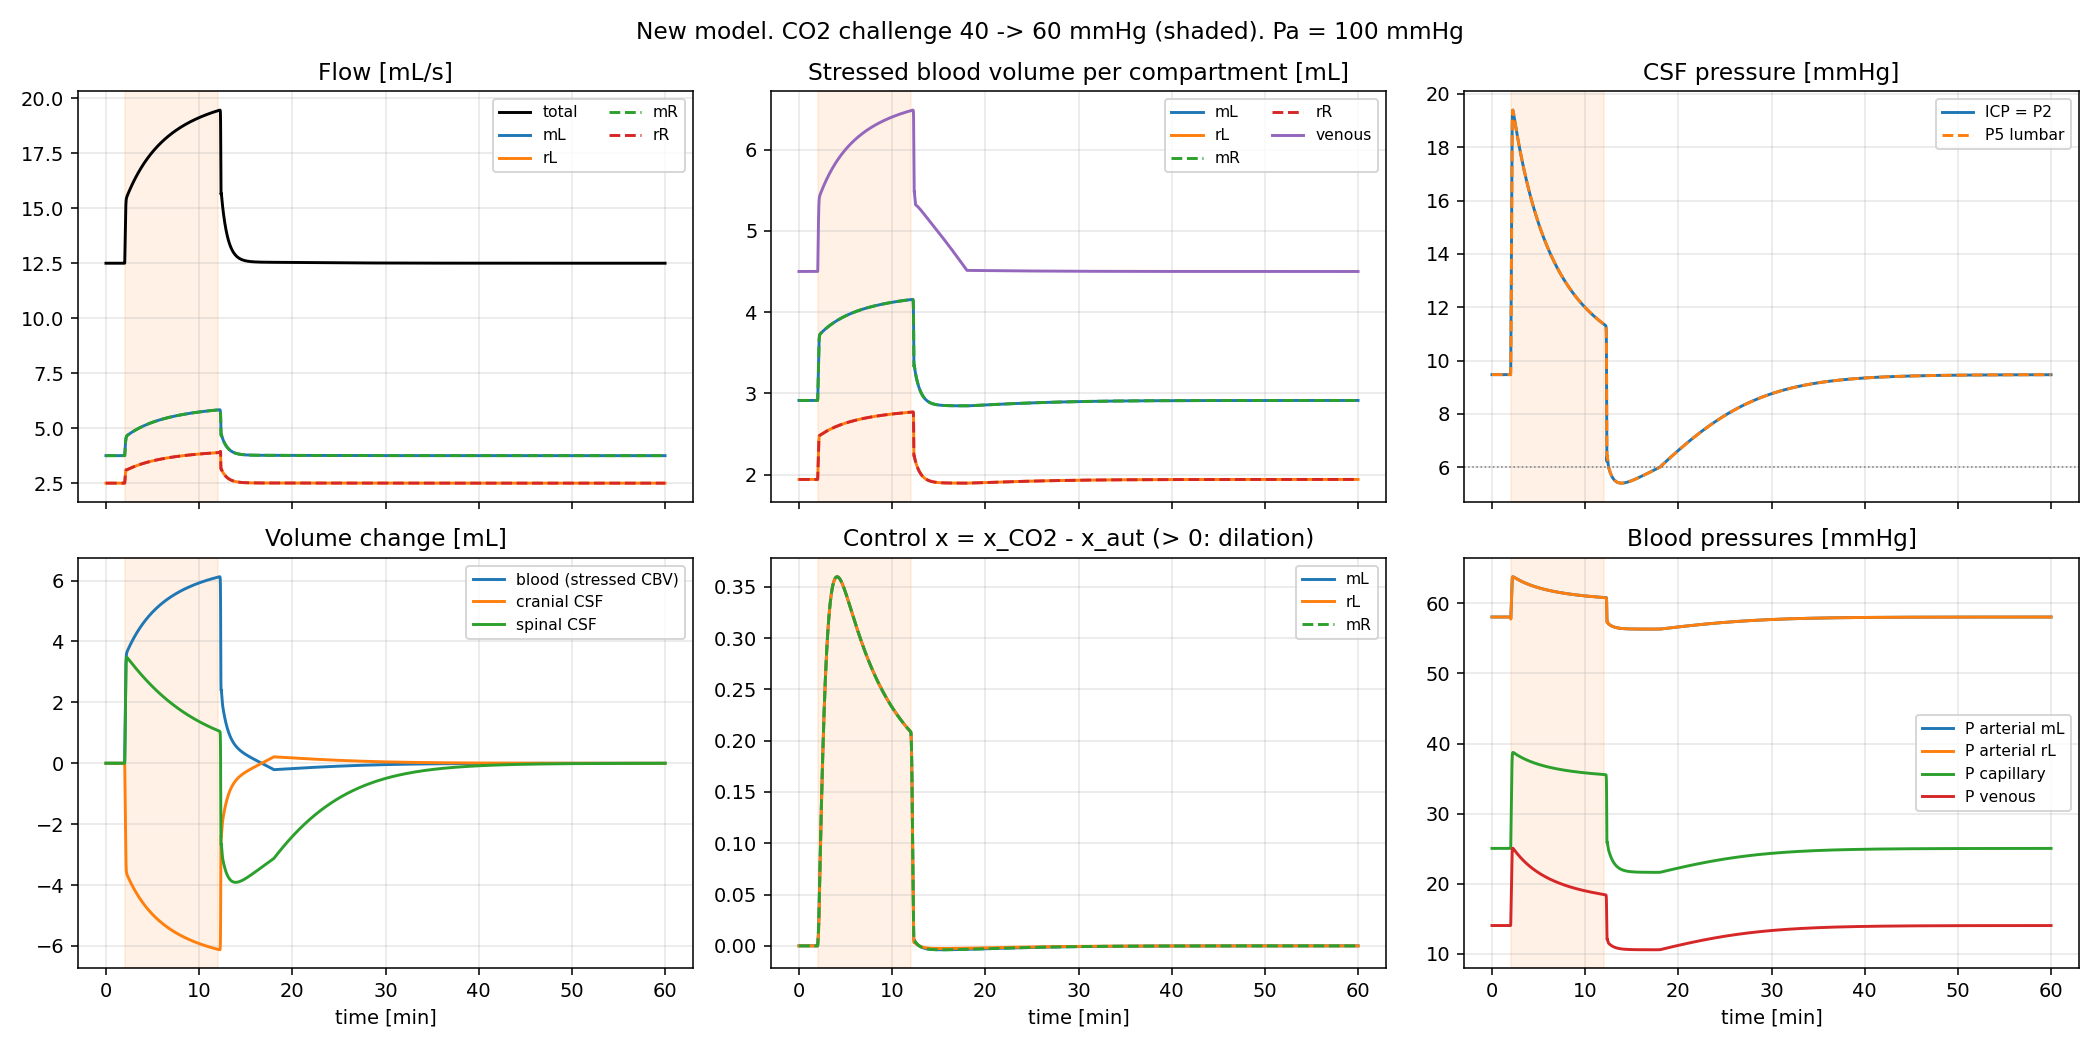
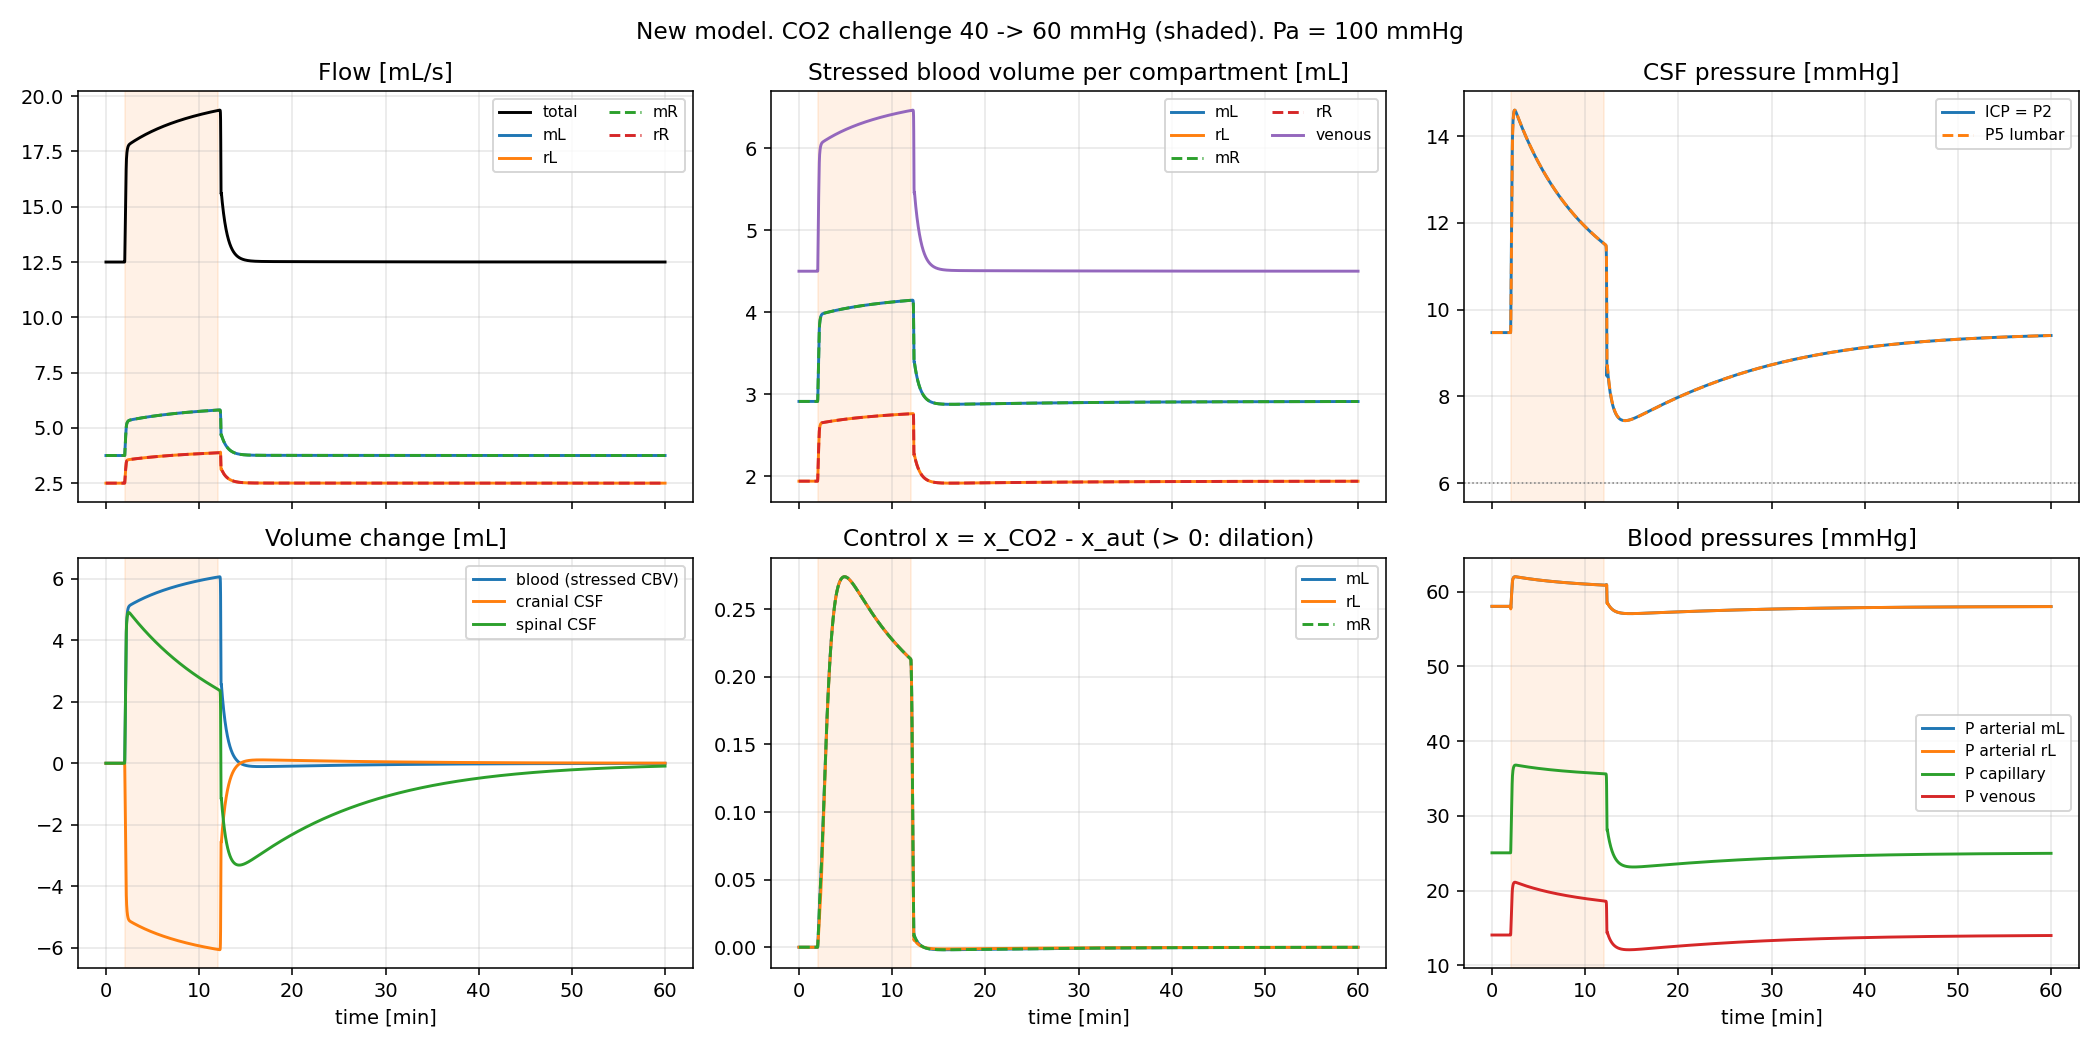
Make calibrated spinal storage the default; fix phi = 1; pulse diagnosis
new_model.py: NewModel() now scales Vanek's spinal compliances so that
storage at rest equals Ursino's 1/(k_E * ICP) (scale 2.09);
NewModel.vanek_values() gives the raw values. --calibrate compares the
two and runs the data-file pulse check.

Specification 7.7: decision phi_a = phi_v = 1 (blood walls face the SAS
only), reasons for the default storage, numbers for the default model,
and a diagnosis of the too-large ICP pulse (unresolved).

Figures regenerated with the default model.

diff --git a/mat_models/new_model.py b/mat_models/new_model.py
@@ -26,7 +26,7 @@ Units: mmHg, mL, s.
 
 Usage (from mat_models/):
     python new_model.py                 # tests of spec sections 7.1 and 7.3, figures to docs/figures/  (about 70 s)
-    python new_model.py --calibrate     # + calibration K1 and recording K2 of spec 7.5                   (about 3 min)
+    python new_model.py --calibrate     # + comparison with Vanek's raw compliances (K1), data-file check (K2) (3 min)
     python new_model.py --sensitivity   # + phi_v sensitivity V1 of spec 7.5                             (about 7 min)
     python new_model.py --all
 """
@@ -74,7 +74,7 @@ class Inputs:
 class NewModel:
     """New 0D model, spec section 3.5. Parameters: spec section 4 (source given next to each value)."""
 
-    def __init__(self, phi_a=1.0, phi_v=1.0, R_com=15.0, c_sp_scale=1.0):
+    def __init__(self, phi_a=1.0, phi_v=1.0, R_com=15.0, c_sp_scale=None, k_E=0.077):
         # ---- Known: Ursino & Giannessi 2010, Table 1 -------------------------------------------------------------
         self.tau_aut, self.G_aut = 20.0, 0.9
         self.tau_CO2, self.G_CO2 = 40.0, 4.0
@@ -96,8 +96,6 @@ class NewModel:
         # ---- Known: Vanek 2015 Tab. 6.2.1 / Stepanik MATLAB CSF_defSettings.m ------------------------------------
         self.R12, self.R23, self.R34, self.R45 = 160.0, 0.30, 0.40, 0.30
         self.C3C0, self.C4T0, self.C5L0 = 1.125, 1.500, 2.250
-        self.c_sp_scale = c_sp_scale                            # calibration knob (spec 7.5); 1 = Vanek's values
-        self.C3C0, self.C4T0, self.C5L0 = (c_sp_scale * c for c in (self.C3C0, self.C4T0, self.C5L0))
         self.a_sp, self.r_sp = 0.6, 0.6                         # spinal wall exponents (MATLAB only, spec 4.4)
         self.S1 = 550.0 / 86400.0                               # CSF production [mL/s]
         self.alpha = 0.11 / 60.0                                # resorption conductance [mL/(s mmHg)]
@@ -105,13 +103,22 @@ class NewModel:
         self.P_epi_n = 2.0                                      # mean epidural pressure [mmHg]
 
         # ---- Unknown, start values (spec 4.4) --------------------------------------------------------------------
-        self.phi_a, self.phi_v = phi_a, phi_v                   # share of a blood wall that faces the SAS
+        self.phi_a, self.phi_v = phi_a, phi_v                   # share of a blood wall that faces the SAS. Fixed
+        #                                                         at 1 (decision 10 Nov, spec 7.6); kept as a test knob
         self.R_com = R_com                                      # left-right communicating resistance (ACoA: 14.9)
         self.V_vn = 4.5                                         # venous stressed volume at rest [mL] (Ursino: 4-5)
         self.C_min_frac = 0.05                                  # bound C_k >= C_min_frac * C_n,k (default P11)
         self.Pa_n = 100.0
 
         self._calibrate()
+
+        # Spinal compliance scale (spec 7.5, 7.6). Default: scale Vanek's three values by one factor so that the
+        # storage at rest equals Ursino's 1/(k_E * ICP) (Table 1, k_E = 0.077 /mL). Vanek's own model had extra
+        # storage in its venous walls (C1b, C2b), which do not exist here. c_sp_scale=1 gives Vanek's raw values.
+        if c_sp_scale is None:
+            c_sp_scale = 1.0 / (k_E * self.P2_n) / self.storage_at_rest()
+        self.c_sp_scale = c_sp_scale
+        self.C3C0, self.C4T0, self.C5L0 = (c_sp_scale * c for c in (self.C3C0, self.C4T0, self.C5L0))
 
     # ------------------------------------------------------------------------------------------------------------------
     def _calibrate(self):
@@ -143,11 +150,9 @@ class NewModel:
         return (self.C3C0 + self.C4T0 + self.C5L0) * np.exp(-self.r_sp * abs(u) ** self.a_sp)
 
     @classmethod
-    def calibrated_to_ursino(cls, k_E=0.077, **kw):
-        """Scale the spinal compliances so that storage at rest = Ursino's 1/(k_E * ICP) (spec 7.5)."""
-        base = cls(**kw)
-        target = 1.0 / (k_E * base.P2_n)
-        return cls(c_sp_scale=target / base.storage_at_rest(), **kw)
+    def vanek_values(cls, **kw):
+        """Variant with Vanek's raw spinal compliances (no scaling)."""
+        return cls(c_sp_scale=1.0, **kw)
 
     def initial_state(self):
         y0 = np.zeros(18)
@@ -493,7 +498,8 @@ def run_recording(m, path):
 
 def sensitivity_phi_v(rep, base, values=(1.0, 0.5)):
     """V1 (spec 7.5): do the results depend on which CSF space the veins push on?
-    base = runs already made with phi_v = 1. The phi_v = 0.5 runs are stiff and slow (minutes)."""
+    base = runs already made with phi_v = 1. The phi_v = 0.5 runs are stiff and slow (minutes).
+    Result of 10 Nov (spec 7.6): phi_v = 0.5 makes P1 unstable in the stroke run; phi_a = phi_v = 1 is fixed."""
     res = {values[0]: base}
     for pv in values[1:]:
         m = NewModel(phi_v=pv)
@@ -599,55 +605,55 @@ def main(argv=()):
 
 
 def step_calibration(m, base_runs, fig_dir):
-    """Third step (spec 7.5): calibration to Ursino's storage (K1) and validation on a recording (K2)."""
+    """Third step (spec 7.5): default (storage calibrated to Ursino) vs Vanek's raw values (K1), data-file check (K2)."""
     n_fail = 0
-    mc = NewModel.calibrated_to_ursino()
-    print(f"\n=== Calibration to Ursino's storage (spec 7.5) ===")
-    print(f"storage at rest: Vanek values {m.storage_at_rest():.3f} mL/mmHg, target {mc.storage_at_rest():.3f} mL/mmHg, "
+    mv = NewModel.vanek_values()
+    mc = m
+    print(f"\n=== Storage calibration (spec 7.5) ===")
+    print(f"storage at rest: Vanek values {mv.storage_at_rest():.3f} mL/mmHg, default (Ursino target) {mc.storage_at_rest():.3f} mL/mmHg, "
           f"scale s = {mc.c_sp_scale:.3f}")
-    rep_c = Report()
-    test_rest(rep_c, mc)
-    cal_runs = {
-        "CO2 challenge 40 -> 60 mmHg": test_co2(rep_c, mc),
-        "5 % CO2 (PaCO2 47.5 mmHg)": test_co2_5pct(rep_c, mc),
-        "Lumbar infusion test, 1.5 mL/min for 10 min": test_lit(rep_c, mc),
-        "Stroke: left MCA occluded 30 min, then reopened": test_stroke(rep_c, mc),
+    rep_v = Report()
+    test_rest(rep_v, mv)
+    van_runs = {
+        "CO2 challenge 40 -> 60 mmHg": test_co2(rep_v, mv),
+        "5 % CO2 (PaCO2 47.5 mmHg)": test_co2_5pct(rep_v, mv),
+        "Lumbar infusion test, 1.5 mL/min for 10 min": test_lit(rep_v, mv),
+        "Stroke: left MCA occluded 30 min, then reopened": test_stroke(rep_v, mv),
     }
-    puls_c = test_pulsatile(rep_c, mc)
-    print("K1: all checks again with the calibrated model")
-    n_fail += rep_c.show()
+    test_pulsatile(rep_v, mv)
+    print("K1: all checks again with Vanek's raw spinal compliances")
+    n_fail += rep_v.show()
     print(f"\n{'scenario':<50}{'dCBV [mL]':>22}{'ICP max [mmHg]':>22}{'ICP min [mmHg]':>22}")
-    print(f"{'':<50}{'Vanek':>11}{'calib.':>11}{'Vanek':>11}{'calib.':>11}{'Vanek':>11}{'calib.':>11}")
-    for k in cal_runs:
-        a_, c_ = base_runs[k], cal_runs[k]
+    print(f"{'':<50}{'Vanek':>11}{'default':>11}{'Vanek':>11}{'default':>11}{'Vanek':>11}{'default':>11}")
+    for k in van_runs:
+        a_, c_ = van_runs[k], base_runs[k]
         i0, i1, _ = a_["marks"]
         print(f"{k:<50}{a_['Vblood'][i1] - a_['Vblood'][i0]:>11.2f}{c_['Vblood'][i1] - c_['Vblood'][i0]:>11.2f}"
               f"{a_['ICP'].max():>11.2f}{c_['ICP'].max():>11.2f}{a_['ICP'].min():>11.2f}{c_['ICP'].min():>11.2f}")
-    for k, fname in (("Lumbar infusion test, 1.5 mL/min for 10 min", "new_model_lit_calibrated.png"),):
-        plot_run(cal_runs[k], mc, os.path.join(fig_dir, fname), f"New model, CALIBRATED storage. {k} (shaded)")
+    m = mv   # below: "m" = Vanek values, "mc" = default
 
     rep2 = Report()
     rec_path = os.path.normpath(os.path.join(fig_dir, "..", "..", "zbysek_matlab_code", "data", "inputs_OK.mat"))
     if os.path.exists(rec_path):
         vc, vb = run_recording(mc, rec_path), run_recording(m, rec_path)
-        print(f"\n=== K2: Stepanik's recording ({rec_path}) ===")
+        print(f"\n=== K2: Stepanik's data file, one beat repeated ({rec_path}) ===")
         print(f"cardiac period {vc['period']:.3f} s, mean P_A {vc['Pa_mean']:.1f} mmHg, arterial pulse {vc['Pa_pp']:.1f} mmHg p-p")
-        print(f"ICP pulse p-p: recording {vc['icp_rec_pp']:.2f} mmHg | calibrated model {vc['icp_mod_pp']:.2f} | Vanek values {vb['icp_mod_pp']:.2f}")
-        print(f"ICP mean:      recording {vc['icp_rec_mean']:.2f} mmHg | calibrated model {vc['icp_mod_mean']:.2f} | Vanek values {vb['icp_mod_mean']:.2f}")
-        print(f"stressed CBV pulse p-p: calibrated {vc['cbv_pp']:.2f} mL | Vanek values {vb['cbv_pp']:.2f} mL")
-        rep2.check("K2 ICP pulse, calibrated model / recording", vc["ratio"], 0.5, 2.0, "ratio")
-        rep2.info("K2 ICP pulse, Vanek values / recording", vb["ratio"], 0.5, 2.0, "ratio")
+        print(f"ICP pulse p-p: data file {vc['icp_rec_pp']:.2f} mmHg | default model {vc['icp_mod_pp']:.2f} | Vanek values {vb['icp_mod_pp']:.2f}")
+        print(f"ICP mean:      data file {vc['icp_rec_mean']:.2f} mmHg | default model {vc['icp_mod_mean']:.2f} | Vanek values {vb['icp_mod_mean']:.2f}")
+        print(f"stressed CBV pulse p-p: default {vc['cbv_pp']:.2f} mL | Vanek values {vb['cbv_pp']:.2f} mL")
+        rep2.check("K2 ICP pulse, default model / data file", vc["ratio"], 0.5, 2.0, "ratio")
+        rep2.info("K2 ICP pulse, Vanek values / data file", vb["ratio"], 0.5, 2.0, "ratio")
         import matplotlib
         matplotlib.use("Agg")
         import matplotlib.pyplot as plt
         fig, ax = plt.subplots(figsize=(11, 4))
         w = (vc["tr"] >= 20) & (vc["tr"] <= 30)
-        ax.plot(vc["tr"][w], vc["icp_rec"][w] - vc["icp_rec_mean"], "k", label="recording (Stepanik data)")
-        for v, lab in ((vc, "model, calibrated storage"), (vb, "model, Vanek values")):
+        ax.plot(vc["tr"][w], vc["icp_rec"][w] - vc["icp_rec_mean"], "k", label="Stepanik data file (one beat repeated)")
+        for v, lab in ((vc, "model, default (storage calibrated)"), (vb, "model, Vanek values")):
             w2 = (v["t"] >= 20) & (v["t"] <= 30)
             ax.plot(v["t"][w2], v["icp_mod"][w2] - v["icp_mod_mean"], label=lab)
         ax.set_xlabel("time [s]"); ax.set_ylabel("ICP - mean [mmHg]"); ax.grid(alpha=0.3); ax.legend(fontsize=8)
-        ax.set_title("ICP pulse: model driven by the recorded arterial pressure vs recorded ICP")
+        ax.set_title("ICP pulse: model driven by the arterial pressure of the data file vs its ICP")
         fig.tight_layout(); fig.savefig(os.path.join(fig_dir, "new_model_recording.png"), dpi=140); plt.close(fig)
     else:
         print(f"\nK2 skipped: recording not found at {rec_path}")
@@ -661,7 +667,7 @@ def step_sensitivity(base_runs):
     base = {"5% CO2": base_runs["5 % CO2 (PaCO2 47.5 mmHg)"], "LIT": base_runs["Lumbar infusion test, 1.5 mL/min for 10 min"],
             "stroke": base_runs["Stroke: left MCA occluded 30 min, then reopened"]}
     rows, res = sensitivity_phi_v(rep2, base)
-    print("\n=== V1: phi_v sensitivity (Vanek values) ===")
+    print("\n=== V1: phi_v sensitivity ===")
     print(f"{'scenario':<10}{'dCBV phi_v=1':>14}{'phi_v=0.5':>11}{'ICP max 1':>11}{'0.5':>8}{'ICP min 1':>11}{'0.5':>8}")
     for name, d in rows:
         print(f"{name:<10}{d[0][0]:>14.3f}{d[1][0]:>11.3f}{d[0][1]:>11.2f}{d[1][1]:>8.2f}{d[0][2]:>11.2f}{d[1][2]:>8.2f}")
